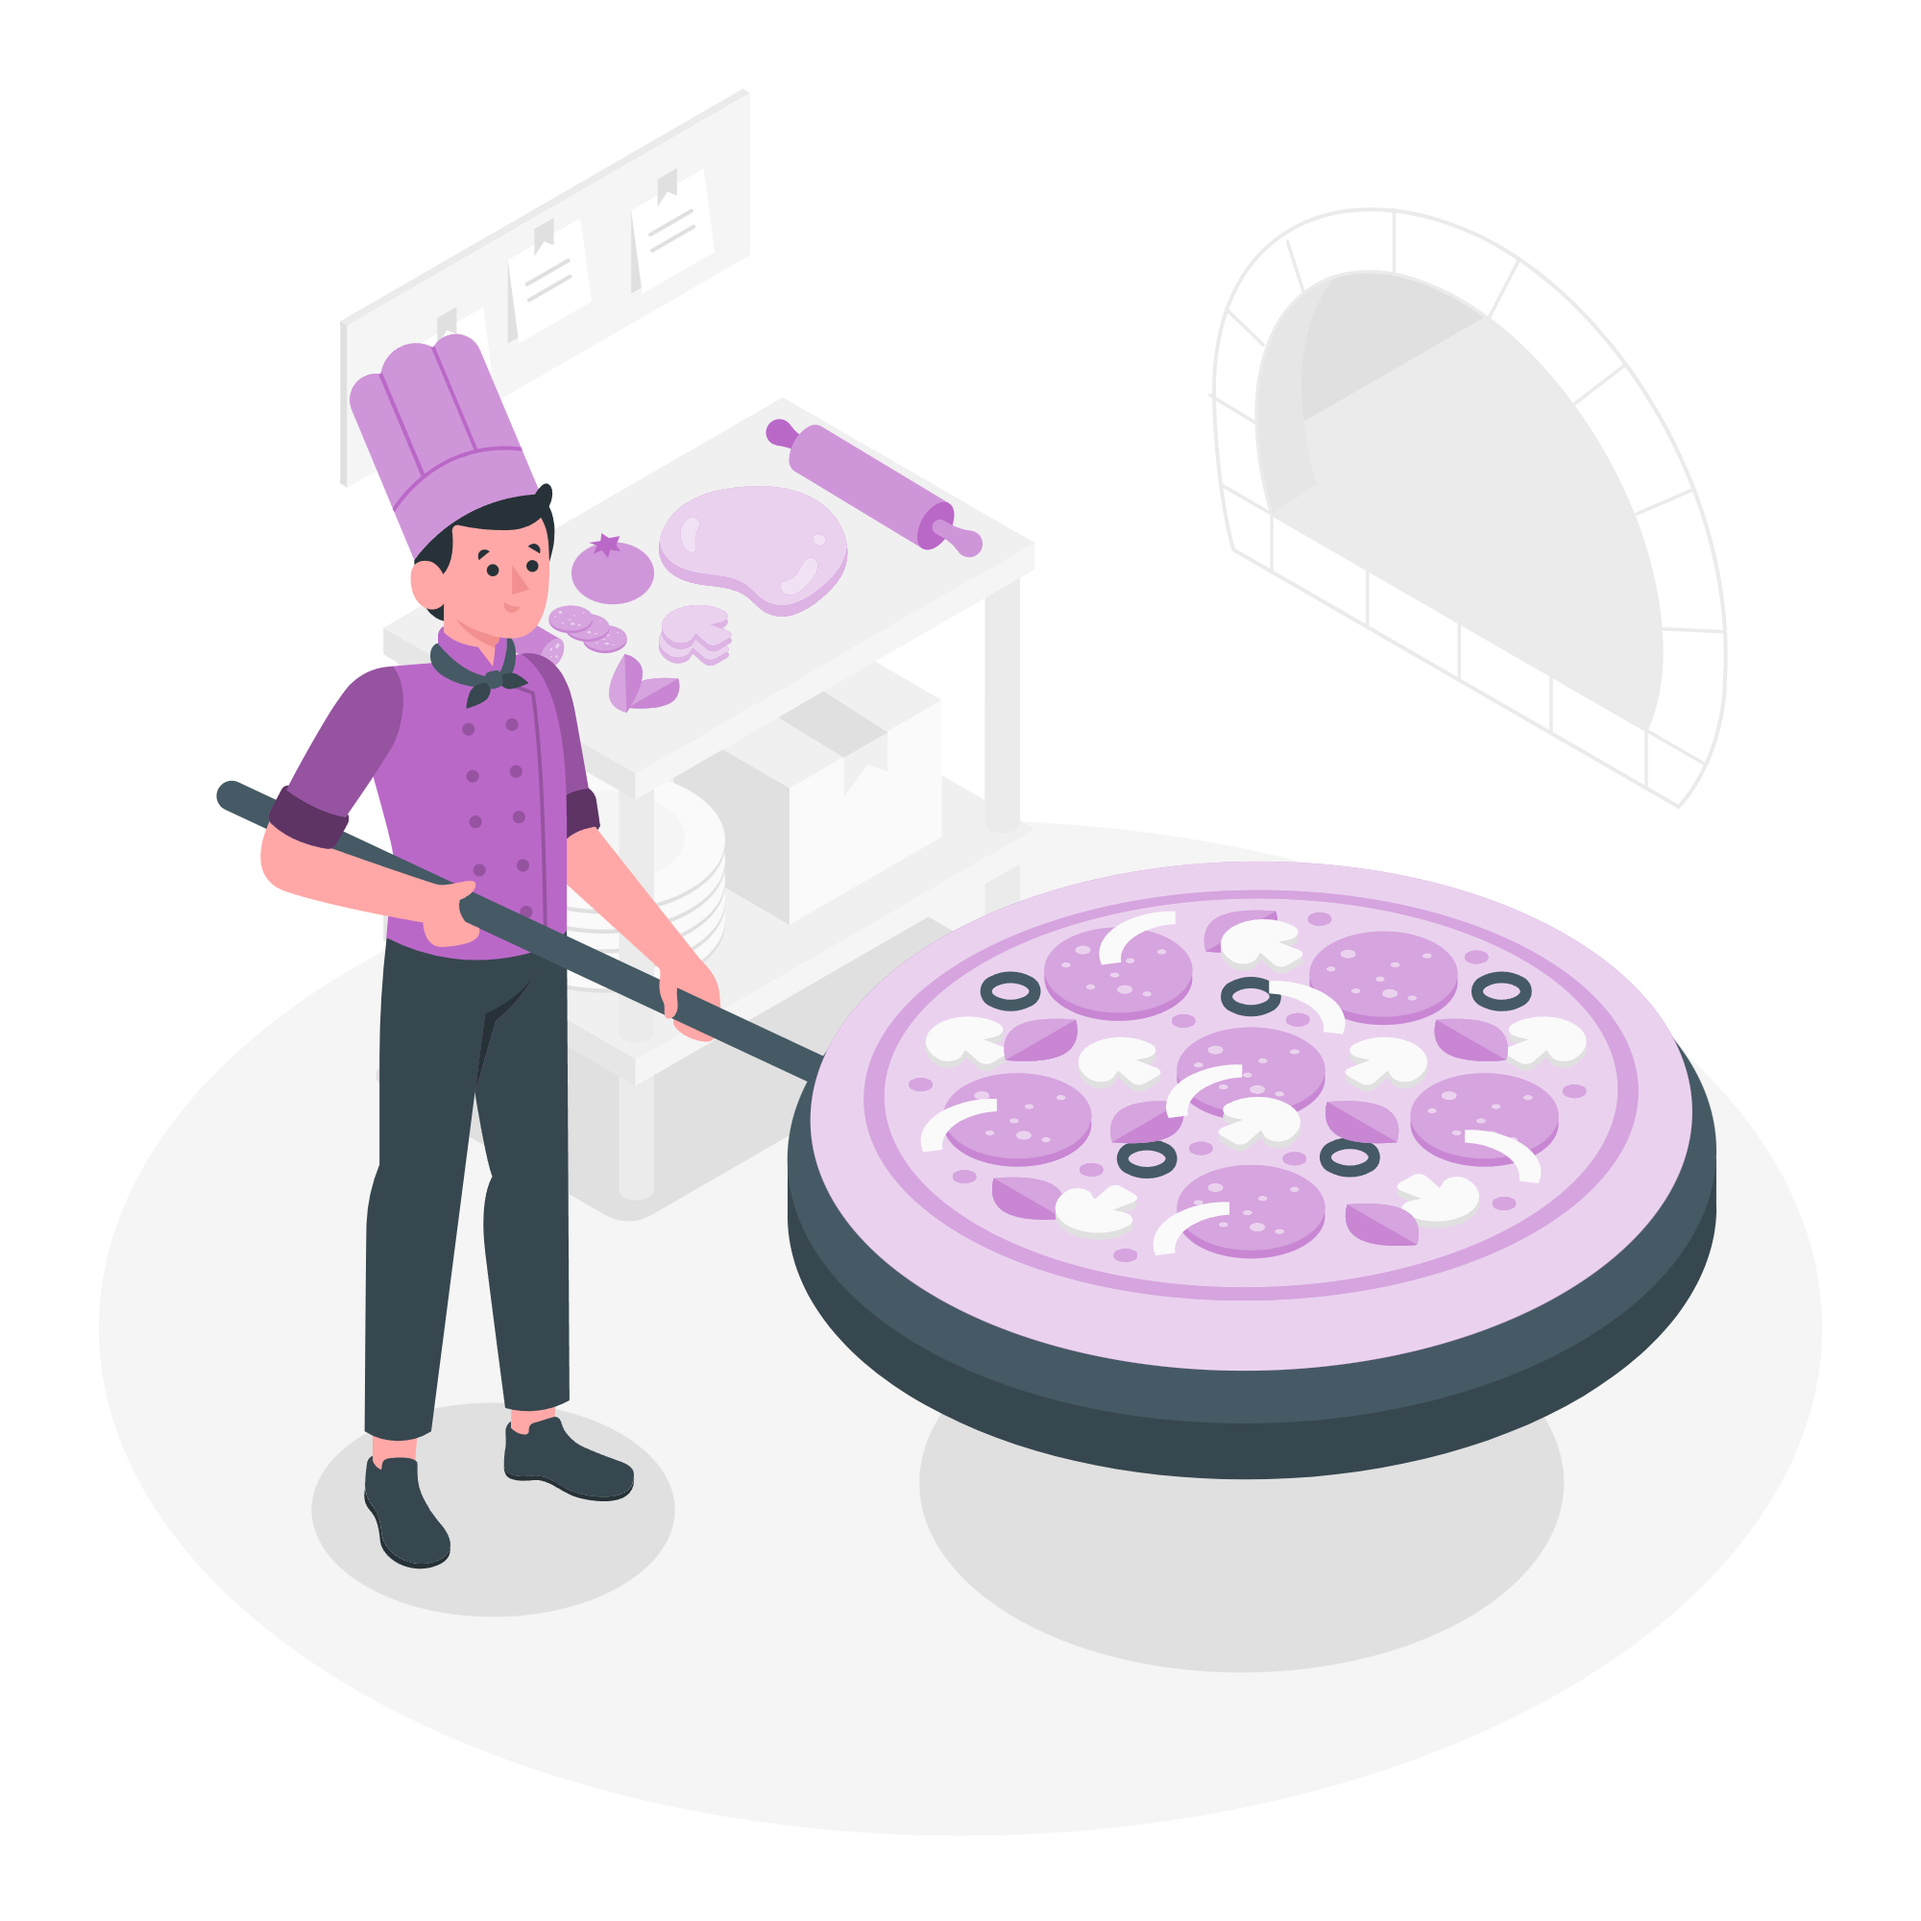
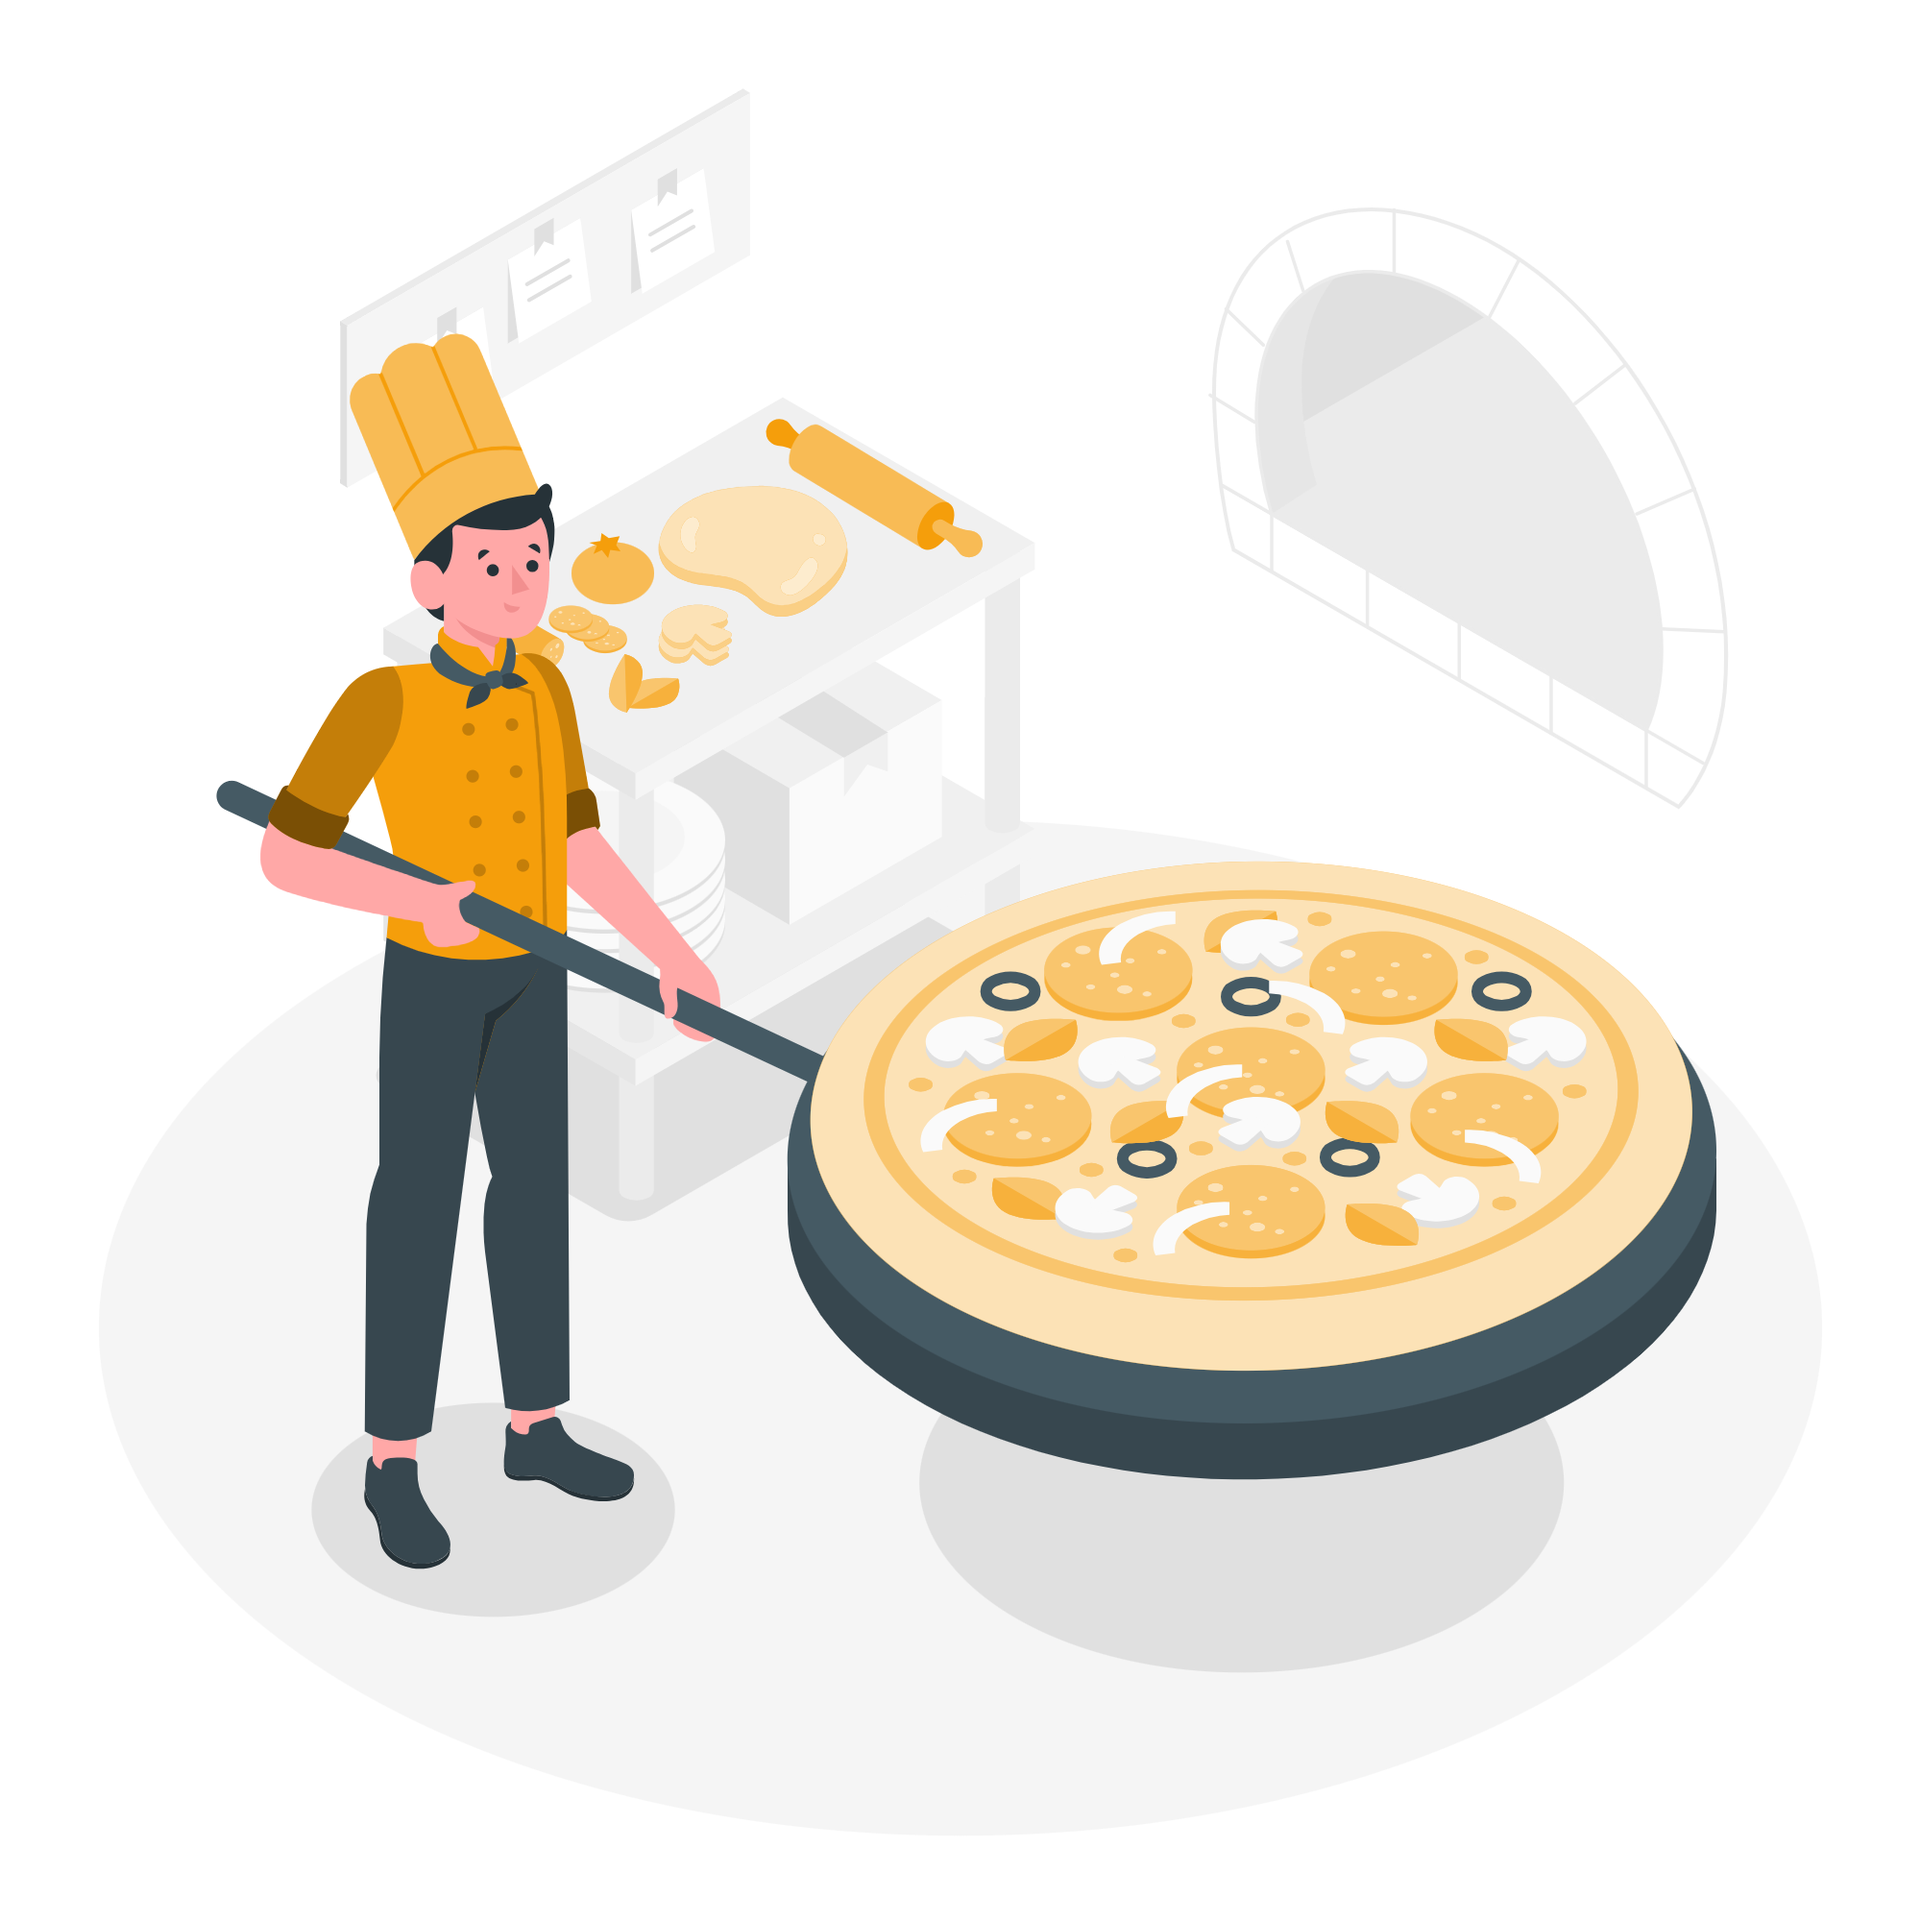
Updated

Changed region(s): [[0.403, 0.434, 0.899, 0.713], [0.124, 0.217, 0.527, 0.496], [0.186, 0.155, 0.279, 0.279]]

diff --git a/app/Providers/Filament/AdminPanelProvider.php b/app/Providers/Filament/AdminPanelProvider.php
@@ -17,6 +17,7 @@ use Illuminate\Cookie\Middleware\EncryptCookies;
 use Illuminate\Foundation\Http\Middleware\VerifyCsrfToken;
 use Illuminate\Routing\Middleware\SubstituteBindings;
 use Illuminate\Session\Middleware\StartSession;
+use Illuminate\Support\Facades\Blade;
 use Illuminate\View\Middleware\ShareErrorsFromSession;
 
 class AdminPanelProvider extends PanelProvider
@@ -27,6 +28,7 @@ class AdminPanelProvider extends PanelProvider
             ->default()
             ->id('admin')
             ->path('admin')
+            ->font('Inter')
             ->brandName("Recantu's")
             ->favicon(asset('assets/icons/pizza.ico'))
             ->login(Login::class)
@@ -56,6 +58,41 @@ class AdminPanelProvider extends PanelProvider
             ])
             ->authMiddleware([
                 Authenticate::class,
-            ]);
+            ])
+            ->renderHook(
+                'panels::head.end',
+                fn(): string => Blade::render("
+            <style>
+                /* Estilização da Sidebar */
+                .fi-sidebar {
+                    background-color: #1e293b !important;
+                    border-right: 1px solid #334155;
+                }
+
+                /* Cor do texto dos itens do menu */
+                .fi-sidebar-item-label, .fi-sidebar-group-label {
+                    color: #f1f5f9 !important;
+                }
+
+                /* Cor dos ícones */
+                .fi-sidebar-item-icon {
+                    color: #94a3b8 !important;
+                }
+
+                /* Efeito de Hover e Item Ativo */
+                .fi-sidebar-item-button:hover, 
+                .fi-sidebar-item-active,
+                .fi-sidebar-item-button.fi-active {
+                    background-color: #334155 !important;
+                }
+                
+                /* Logo/Nome da marca no topo da sidebar */
+                .fi-sidebar-header {
+                    background-color: #0f172a !important;
+                    border-bottom: 1px solid #1e293b;
+                }
+            </style>
+        "),
+            );
     }
 }

diff --git a/app/Filament/Resources/ProdutoResource.php b/app/Filament/Resources/ProdutoResource.php
@@ -1,0 +1,60 @@
+<?php
+
+namespace App\Filament\Resources;
+
+use App\Filament\Resources\ProdutoResource\Pages;
+use App\Models\Produto;
+use Filament\Forms\Form;
+use Filament\Resources\Resource;
+use Filament\Tables;
+use Filament\Tables\Table;
+
+class ProdutoResource extends Resource
+{
+    protected static ?string $model = Produto::class;
+    protected static ?string $navigationIcon = 'heroicon-o-rectangle-stack';
+    protected static ?string $navigationGroup = 'Gestão';
+
+    public static function form(Form $form): Form
+    {
+        return $form
+            ->schema([
+                //
+            ]);
+    }
+
+    public static function table(Table $table): Table
+    {
+        return $table
+            ->columns([
+                //
+            ])
+            ->filters([
+                //
+            ])
+            ->actions([
+                Tables\Actions\EditAction::make(),
+            ])
+            ->bulkActions([
+                Tables\Actions\BulkActionGroup::make([
+                    Tables\Actions\DeleteBulkAction::make(),
+                ]),
+            ]);
+    }
+
+    public static function getRelations(): array
+    {
+        return [
+            //
+        ];
+    }
+
+    public static function getPages(): array
+    {
+        return [
+            'index' => Pages\ListProdutos::route('/'),
+            'create' => Pages\CreateProduto::route('/create'),
+            'edit' => Pages\EditProduto::route('/{record}/edit'),
+        ];
+    }
+}

diff --git a/app/Filament/Resources/UserResource.php b/app/Filament/Resources/UserResource.php
@@ -6,7 +6,6 @@ use App\Filament\Resources\UserResource\Pages;
 use App\Helpers\CEP;
 use App\Models\User;
 use Filament\Tables\Actions\Action;
-use Filament\Tables\Actions\EditAction;
 use Filament\Forms;
 use Filament\Forms\Components\Section;
 use Filament\Forms\Components\Select;
@@ -27,14 +26,11 @@ use Filament\Tables\Table;
 class UserResource extends Resource
 {
     protected static ?string $model = User::class;
-
     protected static ?string $navigationGroup = 'Gestão';
-
     protected static ?string $navigationIcon = 'heroicon-o-user-group';
-
     protected static ?string $navigationLabel = 'Usuários';
-
     protected static ?string $breadcrumb = 'Usuários';
+    protected static ?string $slug = 'usuarios'; 
 
     public static function getPluralModelLabel(): string
     {

diff --git a/app/Models/Produto.php b/app/Models/Produto.php
@@ -1,0 +1,32 @@
+<?php
+
+namespace App\Models;
+
+use Illuminate\Database\Eloquent\Model;
+use Illuminate\Database\Eloquent\Factories\HasFactory;
+
+class Produto extends Model
+{
+    use HasFactory;
+
+    protected $table = 'produto';
+
+    protected $fillable = [
+        'estado',
+        'municipio',
+        'bairro',
+        'cep',
+        'logradouro',
+        'numero',
+        'complemento',
+    ];
+
+    protected function casts(): array
+    {
+        return [
+            'created_at' => 'datetime',
+            'updated_at' => 'datetime',
+        ];
+    }
+
+}

diff --git a/app/Filament/Resources/ProdutoResource/Pages/ListProdutos.php b/app/Filament/Resources/ProdutoResource/Pages/ListProdutos.php
@@ -1,0 +1,19 @@
+<?php
+
+namespace App\Filament\Resources\ProdutoResource\Pages;
+
+use App\Filament\Resources\ProdutoResource;
+use Filament\Actions;
+use Filament\Resources\Pages\ListRecords;
+
+class ListProdutos extends ListRecords
+{
+    protected static string $resource = ProdutoResource::class;
+
+    protected function getHeaderActions(): array
+    {
+        return [
+            Actions\CreateAction::make(),
+        ];
+    }
+}

diff --git a/app/Filament/Resources/ProdutoResource/Pages/EditProduto.php b/app/Filament/Resources/ProdutoResource/Pages/EditProduto.php
@@ -1,0 +1,19 @@
+<?php
+
+namespace App\Filament\Resources\ProdutoResource\Pages;
+
+use App\Filament\Resources\ProdutoResource;
+use Filament\Actions;
+use Filament\Resources\Pages\EditRecord;
+
+class EditProduto extends EditRecord
+{
+    protected static string $resource = ProdutoResource::class;
+
+    protected function getHeaderActions(): array
+    {
+        return [
+            Actions\DeleteAction::make(),
+        ];
+    }
+}

diff --git a/app/Filament/Resources/ProdutoResource/Pages/CreateProduto.php b/app/Filament/Resources/ProdutoResource/Pages/CreateProduto.php
@@ -1,0 +1,12 @@
+<?php
+
+namespace App\Filament\Resources\ProdutoResource\Pages;
+
+use App\Filament\Resources\ProdutoResource;
+use Filament\Actions;
+use Filament\Resources\Pages\CreateRecord;
+
+class CreateProduto extends CreateRecord
+{
+    protected static string $resource = ProdutoResource::class;
+}
